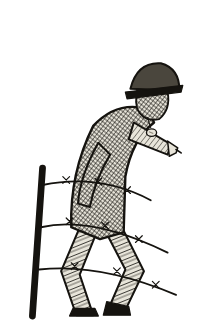
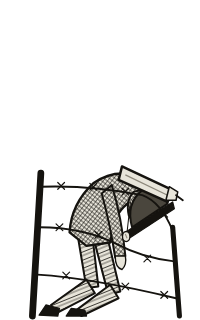
Le mort de l'étape 2 : cadavre affaissé dans le fil, seul le bras tendu reste raide
Claude-Session: https://claude.ai/code/session_011WbKxBfoJbcyebqrVqkEA5

Changed region(s): [[0.15, 0.1875, 0.93, 1.0]]

diff --git a/tools/gen_chr_pnj_e2.py b/tools/gen_chr_pnj_e2.py
@@ -6,8 +6,8 @@ images de 200 x 320, sol à y 316, centre à x 100.
 
   chr_brisse_repos_01 : 4 images ; la flamme de sa bougie vacille, son souffle est lent.
                         Forme : l'arc, un dos rond penché sur une flamme qu'il protège.
-  chr_mort_fige_01    : 1 image ; figé dans un reste de fil, le bras tendu vers la droite
-                        et un peu vers le bas. Forme : la flèche. Plaque d'identité au cou.
+  chr_mort_fige_01    : 1 image ; un cadavre affaissé sur un reste de fil, jambes molles, tête
+                        tombée ; seul le bras tendu vers la droite et le bas est raide.
 
 Aucun rouge : l'ennemi et la mort restent sans sang visible à l'étape 2.
 
@@ -84,34 +84,40 @@ def brisse(i: int) -> str:
 
 
 def mort() -> str:
-    """Le mort, de profil, figé dans un reste de fil, le bras tendu vers la droite et vers le bas."""
+    """Le mort, affaissé sur un reste de fil : un cadavre mou dont seul le bras tendu est raide."""
     return (
-        # piquets et fil où il est pris (le fil passe devant le corps)
-        f'<path d="M40 405 L52 230" stroke="{ENCRE}" stroke-width="8" stroke-linecap="round"/>'
-        # jambes fléchies, un genou au sol
-        f'<path d="M96 300 L74 352 L92 404 L112 404 L96 356 L116 306 Z" fill="url(#mol)" {ST} stroke-width="2.4"/>'
-        f'<path d="M124 300 L150 350 L132 392 L150 398 L172 352 L144 296 Z" fill="url(#mol)" {ST} stroke-width="2.4"/>'
-        f'<path d="M88 396 L84 405 L118 405 L114 396 Z M128 388 L124 404 L156 404 L154 394 Z" fill="{ENCRE}" {ST} stroke-width="1.6"/>'
-        # buste penché en avant (la flèche), capote raidie
-        f'<path d="M86 300 Q84 236 112 180 Q140 150 176 160 L184 176 Q158 196 150 240 L148 306 L120 314 Z" fill="url(#h2)" {ST} stroke-width="2.8"/>'
-        # bras arrière qui pend, accroché au fil
-        f'<path d="M118 200 Q96 240 94 272 L108 276 Q114 244 132 214 Z" fill="url(#h2)" {ST} stroke-width="2.4"/>'
-        # le bras tendu : la flèche, vers la droite et un peu vers le bas
-        f'<path d="M160 176 L204 202 L200 214 L154 196 Z" fill="url(#h1)" {ST} stroke-width="2.4"/>'
-        f'<path d="M200 198 L212 206 L210 212 L202 216 Z" fill="{PAPIER}" {ST} stroke-width="1.8"/>'
-        f'<path d="M210 208 L216 212" {ST} stroke-width="2"/>'
-        # tête penchée, casque glissé ; aucun visage lisible : une ombre en contre-hachure
-        f'<path d="M168 128 Q190 122 200 140 Q204 160 190 172 Q172 176 164 160 Q160 142 168 128 Z" fill="url(#h2)" {ST} stroke-width="2.2"/>'
-        f'<path d="M156 136 Q164 104 192 106 Q214 112 214 138 Z" fill="{LAVIS}" {ST} stroke-width="2.4"/>'
-        f'<path d="M150 140 L218 132 L216 140 L152 148 Z" fill="{ENCRE}" {ST} stroke-width="1.4"/>'
-        # plaque d'identité au cou, rongée (détail mort_plaque) : petit ovale clair, sans inscription
-        f'<path d="M176 170 L180 182" {ST} stroke-width="1.2"/>'
-        f'<ellipse cx="181" cy="188" rx="6" ry="4.4" fill="{PAPIER}" {ST} stroke-width="1.6"/>'
-        f'<path d="M178 187 L183 189" stroke="{MINE}" stroke-width="1.2"/>'
-        # le fil, par-dessus : trois brins, nœuds en X
-        f'<path d="M52 250 Q120 236 180 268 M50 300 Q110 286 200 330 M48 350 Q120 342 210 380" fill="none" {ST} stroke-width="2.2"/>'
+        # piquets du reste de fil
+        f'<path d="M40 405 L50 236" stroke="{ENCRE}" stroke-width="8" stroke-linecap="round"/>'
+        f'<path d="M214 405 L206 300" stroke="{ENCRE}" stroke-width="6" stroke-linecap="round"/>'
+        # jambes molles : genoux au sol, tibias qui traînent derrière, pieds tournés sur le côté
+        f'<path d="M92 300 L104 372 L118 370 L110 302 Z" fill="url(#mol)" {ST} stroke-width="2.4"/>'
+        f'<path d="M104 362 L62 392 L68 402 L114 378 Z" fill="url(#mol)" {ST} stroke-width="2.4"/>'
+        f'<path d="M110 304 L130 380 L144 376 L126 300 Z" fill="url(#mol)" {ST} stroke-width="2.4"/>'
+        f'<path d="M132 368 L92 398 L98 405 L142 384 Z" fill="url(#mol)" {ST} stroke-width="2.4"/>'
+        f'<path d="M56 392 L48 404 L70 405 L72 396 Z M86 396 L80 405 L104 405 L102 398 Z" fill="{ENCRE}" {ST} stroke-width="1.6"/>'
+        # buste qui pend en avant, plié sur le fil, la capote retombée
+        f'<path d="M84 306 Q86 272 112 248 Q138 230 166 240 L172 262 Q150 268 138 290 L132 318 L104 322 Z" fill="url(#h2)" {ST} stroke-width="2.8"/>'
+        # bras arrière qui pend tout droit, sans force
+        f'<path d="M134 250 Q146 290 150 334 L138 336 Q132 296 122 260 Z" fill="url(#h2)" {ST} stroke-width="2.4"/>'
+        f'<path d="M138 334 Q138 348 146 350 Q152 344 150 334 Z" fill="{PAPIER}" {ST} stroke-width="1.6"/>'
+        # tête tombée sur la poitrine, plus bas que les épaules ; aucun visage lisible
+        f'<path d="M160 258 Q180 252 188 270 Q190 290 176 298 Q160 300 154 286 Q150 268 160 258 Z" fill="url(#h2)" {ST} stroke-width="2.2"/>'
+        # casque glissé vers l'avant, de travers
+        f'<path d="M158 300 Q150 272 170 256 Q192 248 200 272 Z" fill="{LAVIS}" {ST} stroke-width="2.4"/>'
+        f'<path d="M150 306 L206 270 L208 278 L156 312 Z" fill="{ENCRE}" {ST} stroke-width="1.4"/>'
+        # plaque d'identité qui pend du cou (détail mort_plaque), sans inscription
+        f'<path d="M156 270 L152 306" {ST} stroke-width="1.2"/>'
+        f'<ellipse cx="151" cy="311" rx="4.4" ry="6" fill="{PAPIER}" {ST} stroke-width="1.6"/>'
+        f'<path d="M150 308 L152 313" stroke="{MINE}" stroke-width="1.2"/>'
+        # la fausse note : le bras tendu, droit et raide, vers la droite et vers le bas
+        f'<path d="M146 228 L206 256 L200 270 L142 244 Z" fill="{PAPIER}" {ST} stroke-width="3"/>'
+        f'<path d="M150 238 L200 262" stroke="{MINE}" stroke-width="1.4"/>'
+        f'<path d="M202 252 L212 258 L210 268 L198 268 Z" fill="{PAPIER}" {ST} stroke-width="1.8"/>'
+        f'<path d="M210 262 L218 268" {ST} stroke-width="2.2"/>'
+        # le fil, par-dessus : un brin tendu sous la poitrine, deux brins retombés
+        f'<path d="M50 252 Q110 250 170 262 Q192 270 206 304 M48 300 Q100 300 140 320 Q170 336 206 340 M46 356 Q110 360 210 384" fill="none" {ST} stroke-width="2.2"/>'
         + "".join(f'<path d="M{x - 4} {y - 4} L{x + 4} {y + 4} M{x + 4} {y - 4} L{x - 4} {y + 4}" {ST} stroke-width="1.4"/>'
-                  for x, y in ((80, 244), (118, 246), (152, 256), (84, 293), (126, 298), (166, 314), (90, 346), (140, 352), (186, 368)))
+                  for x, y in ((74, 251), (112, 252), (150, 258), (196, 284), (72, 300), (118, 309), (176, 337), (80, 357), (150, 370), (196, 380)))
     )
 
 
